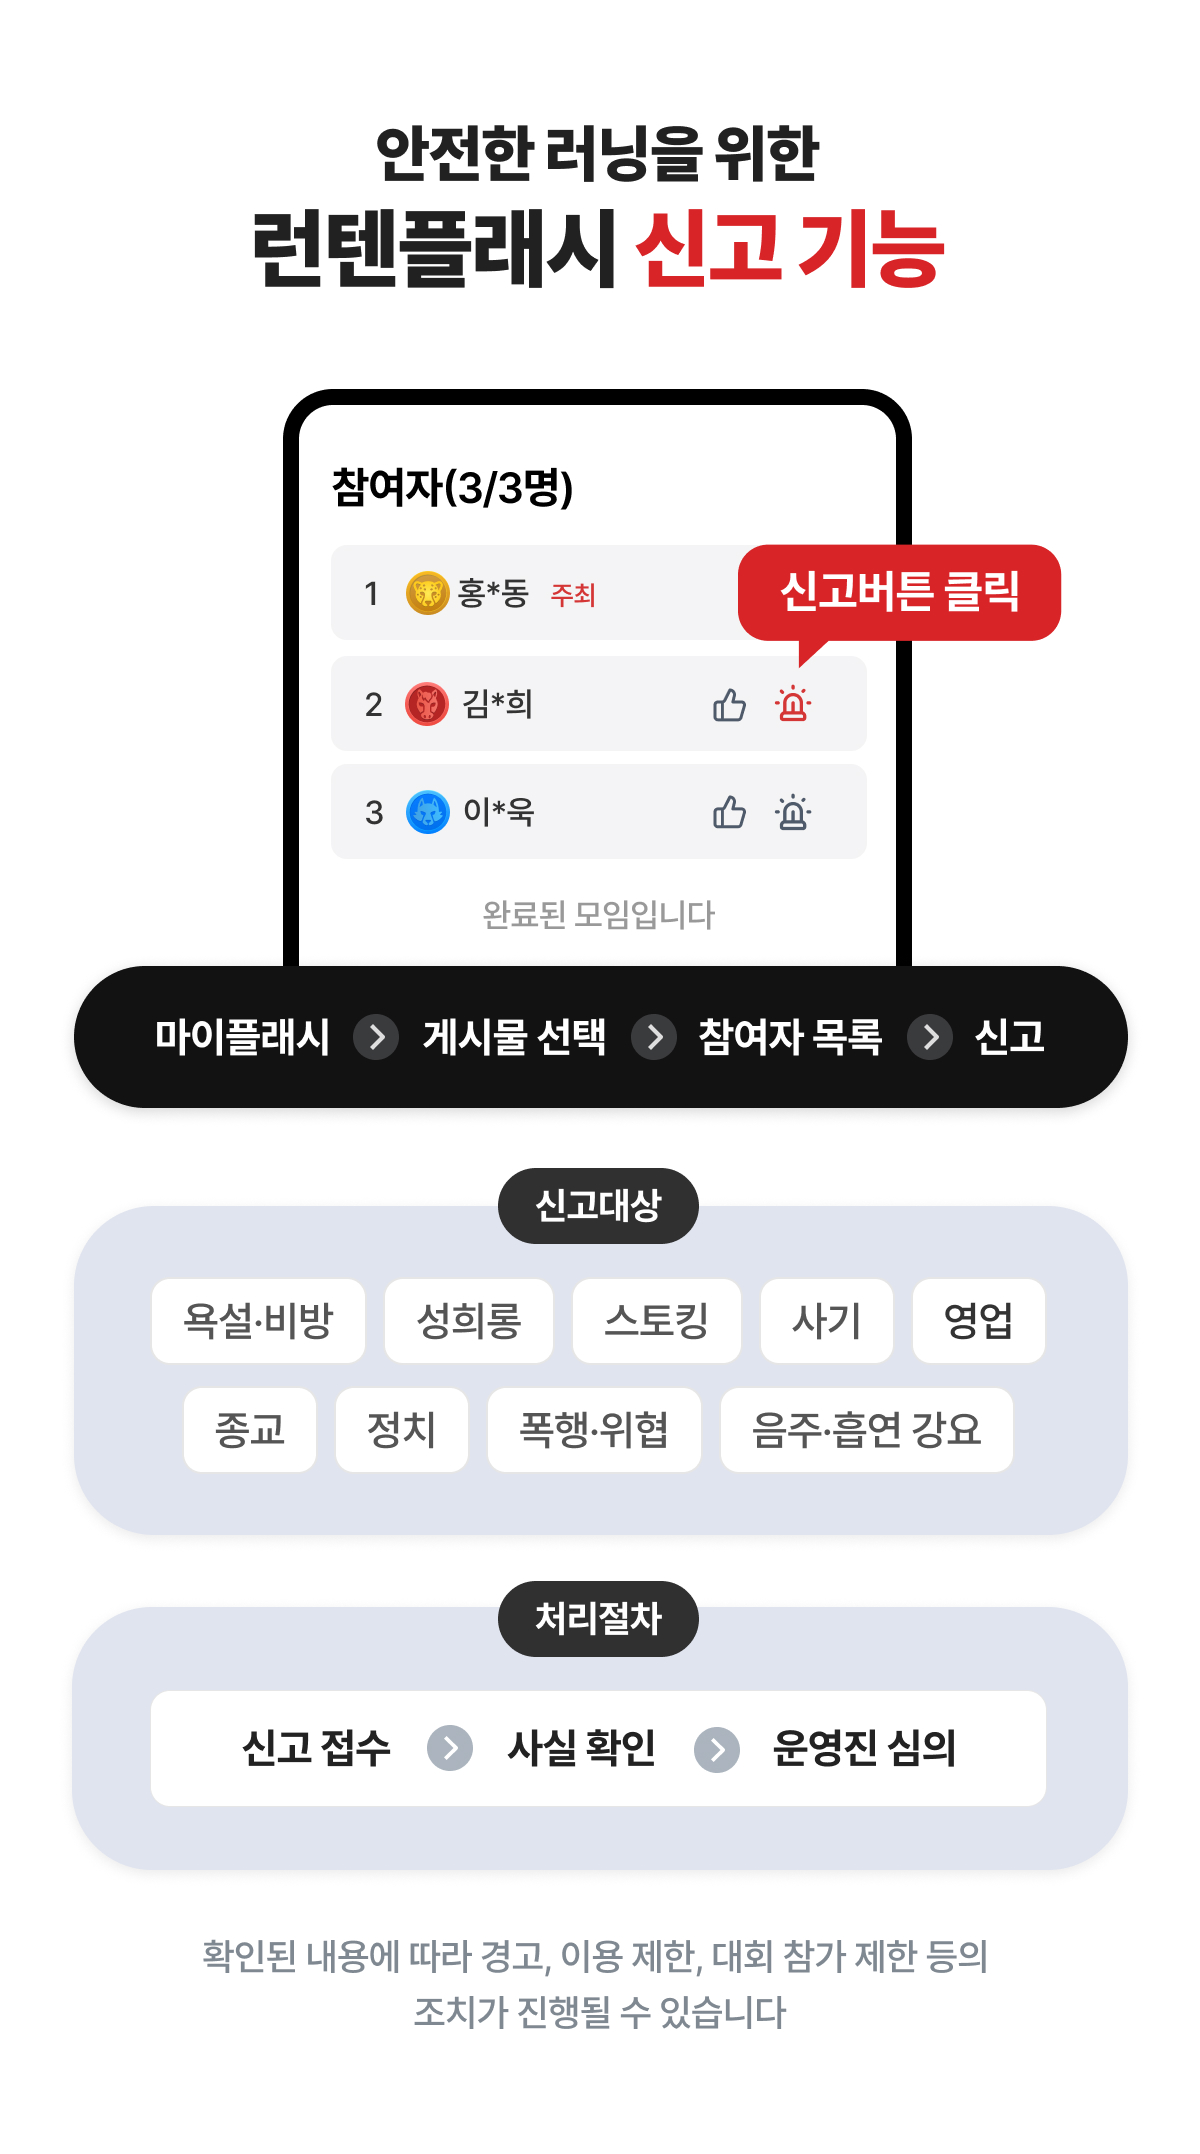
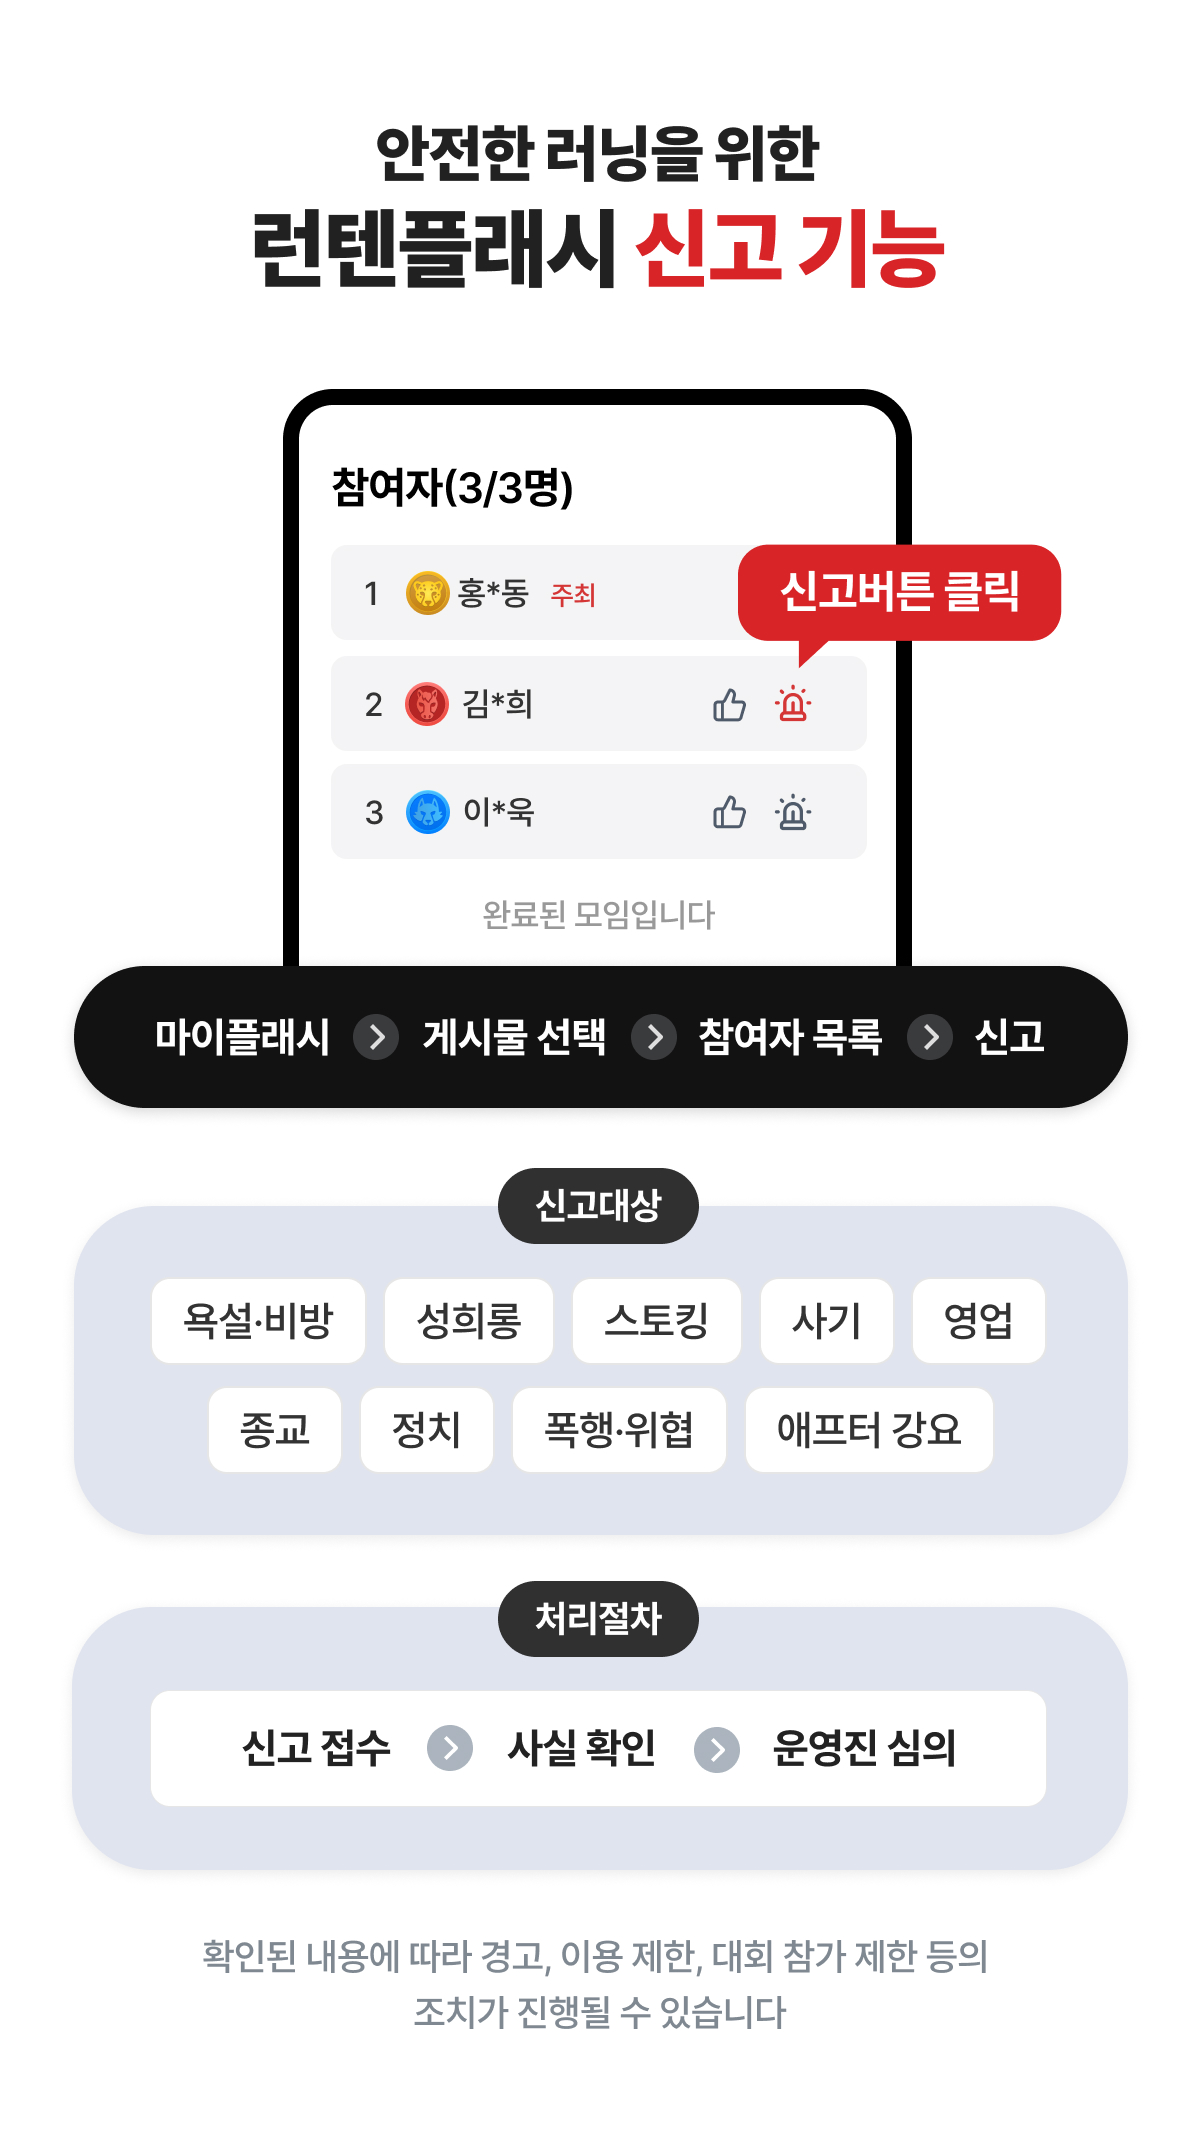
텍스트수정

Changed region(s): [[0.1542, 0.591, 0.8633, 0.6843], [0.5242, 0.591, 0.5858, 0.6221], [0.6783, 0.591, 0.7092, 0.6221]]

diff --git a/src/components/AppMainPage.tsx b/src/components/AppMainPage.tsx
@@ -3,7 +3,7 @@
 import Link from 'next/link'
 import Image from 'next/image'
 import { useState, useEffect } from 'react'
-import { Zap } from 'lucide-react'
+import { Zap, Medal, ChartNoAxesColumnIncreasing, Trophy } from 'lucide-react'
 import PagePopup from '@/components/PagePopup'
 import { useUTMTracking } from '@/hooks/useUTMTracking'
 
@@ -50,38 +50,24 @@ export default function AppMainPage() {
       {/* 메인 페이지 팝업 */}
       <PagePopup pageId="home" />
 
-      {/* Hero Section - 앱 스타일로 간소화 */}
-      <section className="relative h-[30vh] min-h-[250px] flex items-center justify-center bg-gradient-to-br from-red-600 via-red-700 to-red-800">
-        {/* 배경 이미지 */}
-        <div className="absolute inset-0 overflow-hidden opacity-30">
-          <Image
-            src="/images/runners-bg.jpg"
-            alt="러너 배경"
-            fill
-            className="object-cover"
-            quality={75}
-            priority
-          />
-        </div>
-
-        {/* 중앙 텍스트 */}
-        <div className="relative z-10 text-center text-white px-6">
-          <h1 className="text-4xl sm:text-5xl font-black mb-3 tracking-tight">
-            <span className="block">RUN10</span>
-          </h1>
-          <p className="text-base sm:text-lg font-medium opacity-90 mb-2">
-            전국 러닝 협회 인증
-          </p>
-          <p className="text-sm sm:text-base font-light opacity-80">
-            10km 러너들의 공식 플랫폼
-          </p>
-        </div>
+      {/* Hero Section */}
+      <section className="relative w-full">
+        <Image
+          src="/images/main_bg_m.jpg"
+          alt="러너 배경"
+          width={800}
+          height={1200}
+          className="w-full h-auto"
+          quality={75}
+          priority
+        />
       </section>
 
       {/* 런텐 대회 Section */}
       <section className="py-8 px-4 bg-[#051735] text-white">
         <div className="max-w-md mx-auto text-center">
-          <h2 className="text-2xl font-black text-red-600 mb-2">
+          <h2 className="flex items-center justify-center gap-2 text-2xl font-black text-red-600 mb-2">
+            <Medal className="w-6 h-6 flex-shrink-0" />
             런텐 대회
           </h2>
           <div className="mb-6">
@@ -112,7 +98,8 @@ export default function AppMainPage() {
       <section className="py-8 px-4 bg-[#0F0F0F] text-white">
         <div className="max-w-md mx-auto">
           <div className="text-center mb-6">
-            <h2 className="text-2xl font-black text-red-600 mb-2">
+            <h2 className="flex items-center justify-center gap-2 text-2xl font-black text-red-600 mb-2">
+              <ChartNoAxesColumnIncreasing className="w-6 h-6 flex-shrink-0" />
               런텐 티어
             </h2>
             <div className="mt-2">
@@ -140,7 +127,8 @@ export default function AppMainPage() {
       <section className="py-8 px-4 bg-white">
         <div className="max-w-md mx-auto">
           <div className="text-center mb-6">
-            <h2 className="text-2xl font-black text-red-600 mb-2">
+            <h2 className="flex items-center justify-center gap-2 text-2xl font-black text-red-600 mb-2">
+              <Zap className="w-6 h-6 flex-shrink-0" fill="currentColor" />
               런텐 플래시
             </h2>
             <div className="mt-2">
@@ -177,7 +165,8 @@ export default function AppMainPage() {
       <section className="py-8 px-4 bg-black text-white">
         <div className="max-w-md mx-auto">
           <div className="text-center mb-6">
-            <h2 className="text-2xl font-black text-red-600 mb-2">
+            <h2 className="flex items-center justify-center gap-2 text-2xl font-black text-red-600 mb-2">
+              <Trophy className="w-6 h-6 flex-shrink-0" />
               런텐 랭커
             </h2>
             <div className="mt-2">

diff --git a/src/components/WebMainPage.tsx b/src/components/WebMainPage.tsx
@@ -4,7 +4,7 @@ import Link from 'next/link'
 import Image from 'next/image'
 import PagePopup from '@/components/PagePopup'
 import { useState, useEffect } from 'react'
-import { X, Zap } from 'lucide-react'
+import { X, Zap, Medal, ChartNoAxesColumnIncreasing, Trophy } from 'lucide-react'
 
 export default function WebMainPage() {
   const [currentMaleRanker, setCurrentMaleRanker] = useState(0)
@@ -185,7 +185,8 @@ export default function WebMainPage() {
       {/* 런텐 대회 Section */}
       <section className="py-12 sm:py-16 lg:py-20 bg-[#051735] text-white">
         <div className="max-w-7xl mx-auto px-4 sm:px-6 lg:px-8 text-center">
-          <h2 className="text-3xl sm:text-4xl md:text-5xl font-black text-red-600 mb-3 sm:mb-4">
+          <h2 className="flex items-center justify-center gap-2 text-3xl sm:text-4xl md:text-5xl font-black text-red-600 mb-3 sm:mb-4">
+            <Medal className="w-8 h-8 sm:w-9 sm:h-9 md:w-11 md:h-11 flex-shrink-0" />
             런텐 대회
           </h2>
           <div className="mb-8 sm:mb-10 lg:mb-12">
@@ -229,7 +230,8 @@ export default function WebMainPage() {
       <section className="py-12 sm:py-16 lg:py-20 bg-[#0F0F0F] text-white">
         <div className="max-w-7xl mx-auto px-4 sm:px-6 lg:px-8">
           <div className="text-center mb-8 sm:mb-12 lg:mb-16">
-            <h2 className="text-3xl sm:text-4xl md:text-5xl font-black text-red-600 mb-3 sm:mb-4">
+            <h2 className="flex items-center justify-center gap-2 text-3xl sm:text-4xl md:text-5xl font-black text-red-600 mb-3 sm:mb-4">
+              <ChartNoAxesColumnIncreasing className="w-8 h-8 sm:w-9 sm:h-9 md:w-11 md:h-11 flex-shrink-0" />
               런텐 티어
             </h2>
             <div className="mb-6 sm:mb-8 lg:mb-12">
@@ -312,7 +314,8 @@ export default function WebMainPage() {
       <section className="py-12 sm:py-16 lg:py-20 bg-white">
         <div className="max-w-7xl mx-auto px-4 sm:px-6 lg:px-8">
           <div className="text-center mb-8 sm:mb-12 lg:mb-16">
-            <h2 className="text-3xl sm:text-4xl md:text-5xl font-black text-red-600 mb-3 sm:mb-4">
+            <h2 className="flex items-center justify-center gap-2 text-3xl sm:text-4xl md:text-5xl font-black text-red-600 mb-3 sm:mb-4">
+              <Zap className="w-8 h-8 sm:w-9 sm:h-9 md:w-11 md:h-11 flex-shrink-0" fill="currentColor" />
               런텐 플래시
             </h2>
             <div className="mb-6 sm:mb-8 lg:mb-12">
@@ -363,9 +366,10 @@ export default function WebMainPage() {
       <section className="py-12 sm:py-16 lg:py-20 bg-black text-white">
         <div className="max-w-7xl mx-auto px-4 sm:px-6 lg:px-8">
           <div className="text-center mb-8 sm:mb-12 lg:mb-16">
-            <h2 className="text-3xl sm:text-4xl md:text-5xl font-black text-red-600 mb-3 sm:mb-4">
+            <h2 className="flex items-center justify-center gap-2 text-3xl sm:text-4xl md:text-5xl font-black text-red-600 mb-3 sm:mb-4">
+              <Trophy className="w-8 h-8 sm:w-9 sm:h-9 md:w-11 md:h-11 flex-shrink-0" />
               런텐 랭커
-            </h2>            
+            </h2>
             <div className="mb-6 sm:mb-8 lg:mb-12">
               <p className="text-base sm:text-lg text-white mb-1">RUN10 랭커에 도전하세요.</p>
               <p className="text-base sm:text-lg text-white">모든 대회 기록을 반영한 현재 시점 통합 랭킹입니다.</p>

diff --git a/src/app/flash/page.tsx b/src/app/flash/page.tsx
@@ -480,7 +480,7 @@ function FlashPageContent() {
             className="w-full flex items-center justify-center gap-2 py-2.5 bg-white rounded-lg border border-red-100 hover:border-red-300 active:bg-red-50 transition-colors"
           >
             <FileText className="w-4 h-4 text-red-500 flex-shrink-0" />
-            <span className="text-xs sm:text-sm font-medium text-gray-700">런텐 플래시란?</span>
+            <span className="text-xs sm:text-sm font-medium text-gray-700">꼭 읽고 참여하세요!</span>
           </button>
         </div>
 
